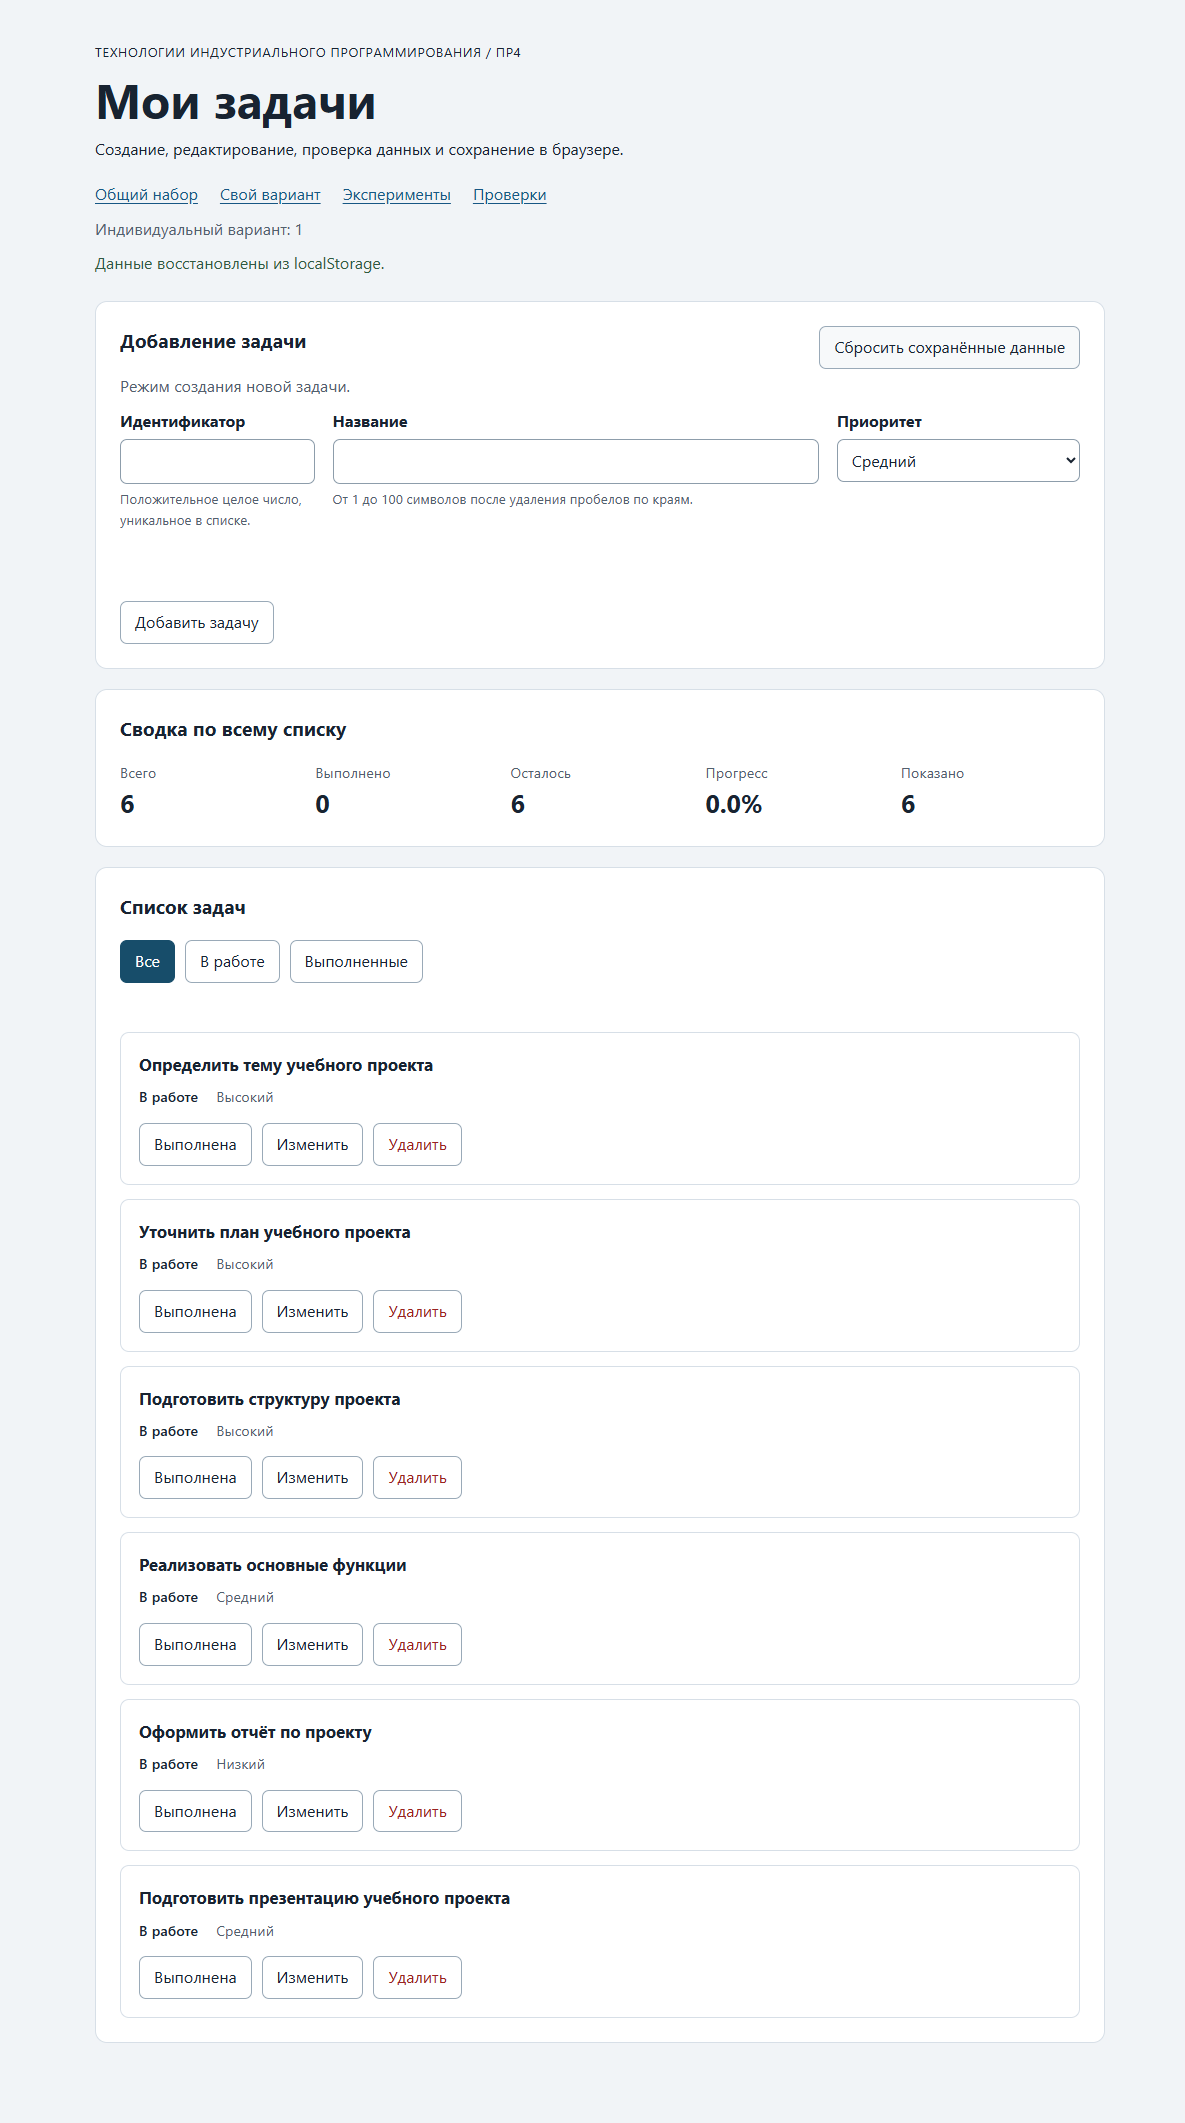
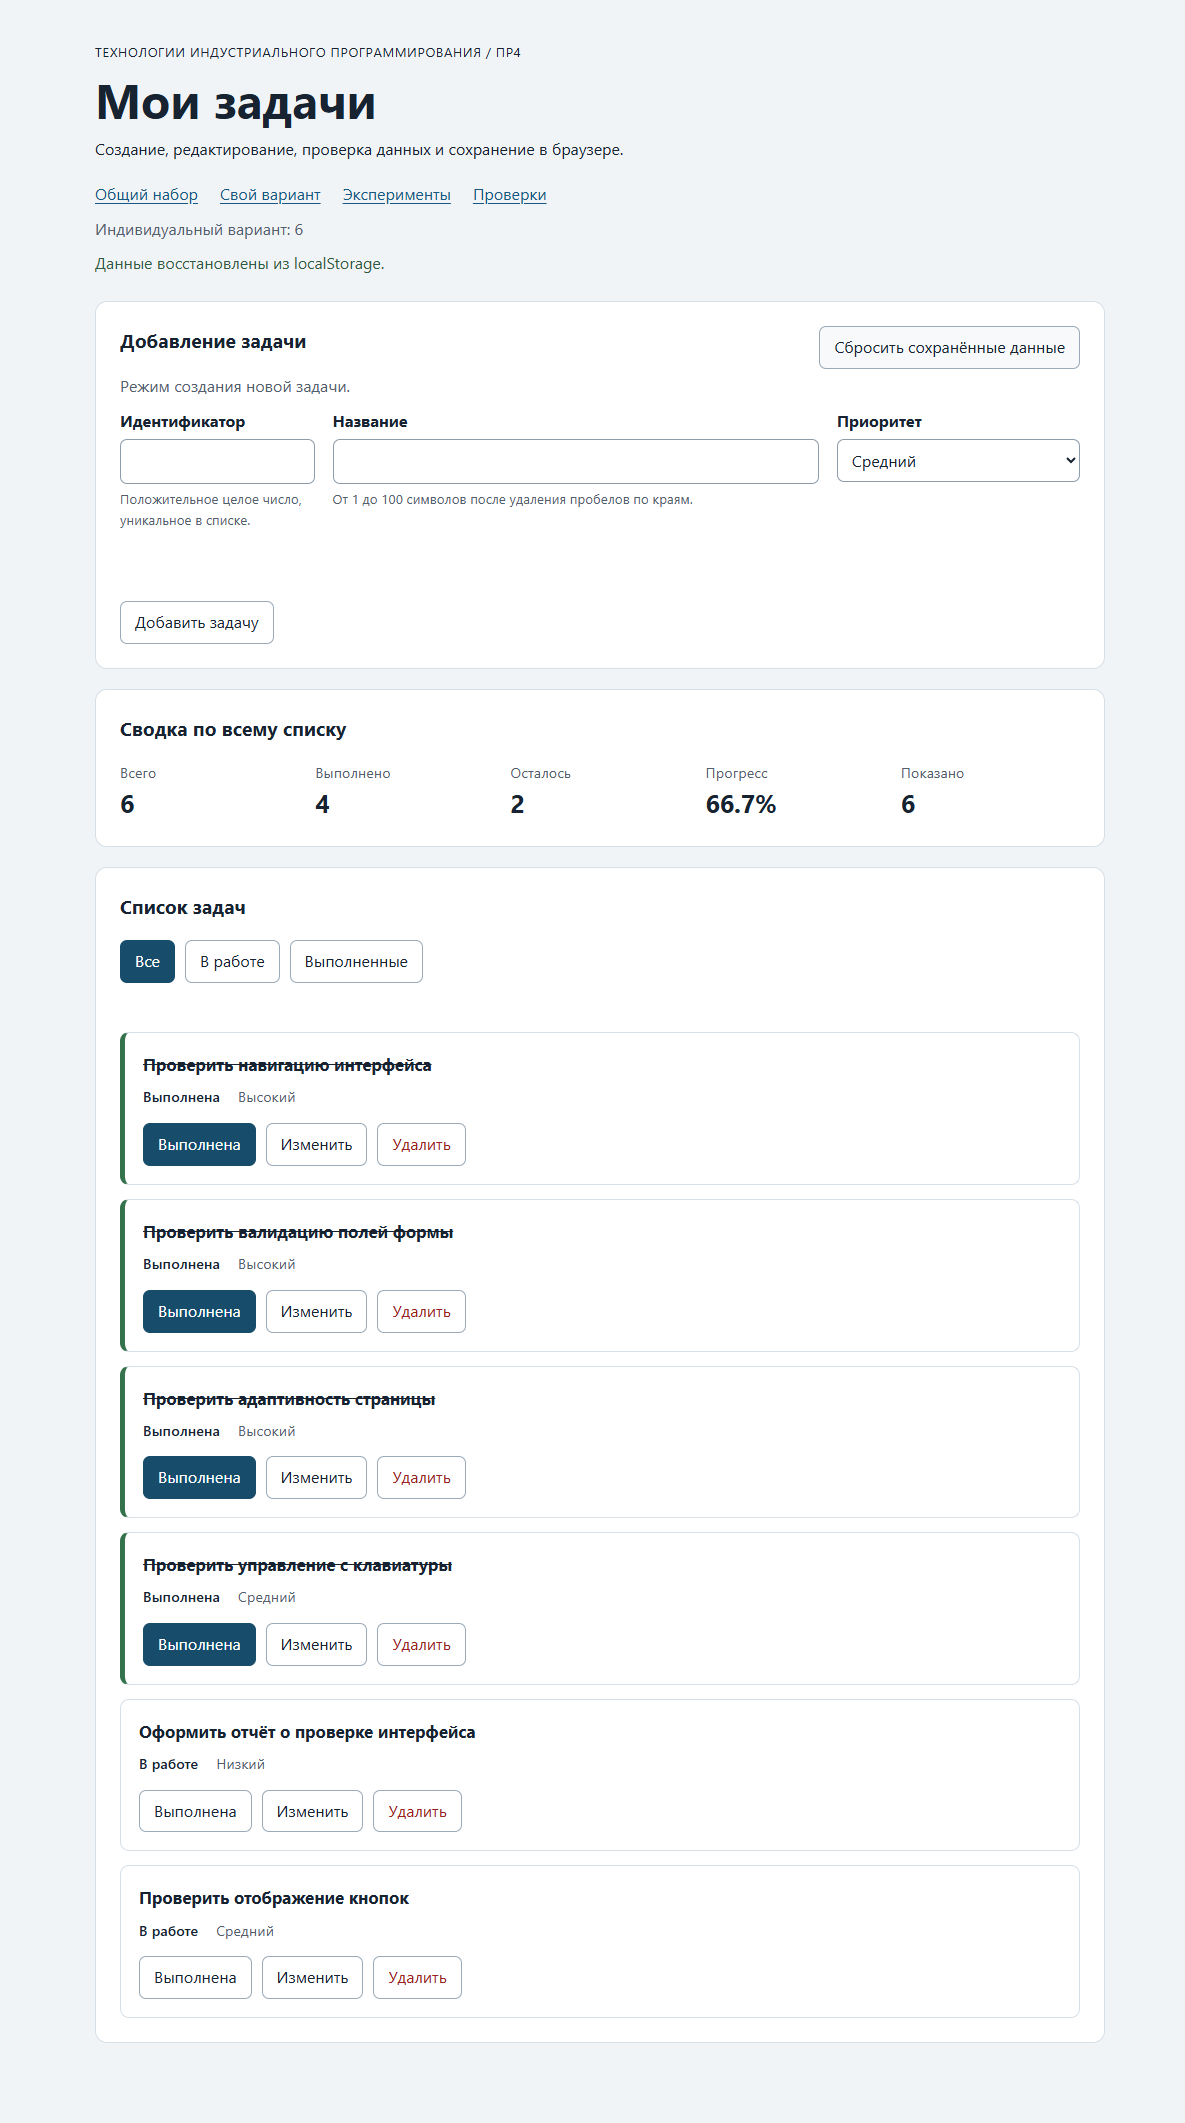
Исправлена практика 4 на вариант 6

diff --git a/practice-04/src/data.js b/practice-04/src/data.js
@@ -7,13 +7,14 @@ export const demoTasks = [
   { id: 10, title: "Оформить README", completed: true, priority: "medium" },
 ];
 
-// Вариант 1: подготовка учебного проекта. Изначально выполнено 0 задач.
-export const variantNumber = 1;
+// Вариант 6: проверка пользовательского интерфейса. Номер в журнале — 22.
+// По методичке изначально выполнены первые пять задач.
+export const variantNumber = 6;
 export const variantTasks = [
-  { id: 11, title: "Определить тему учебного проекта", completed: false, priority: "high" },
-  { id: 23, title: "Составить план работы", completed: false, priority: "medium" },
-  { id: 37, title: "Подобрать учебные материалы", completed: false, priority: "low" },
-  { id: 41, title: "Подготовить структуру проекта", completed: false, priority: "high" },
-  { id: 58, title: "Реализовать основные функции", completed: false, priority: "medium" },
-  { id: 64, title: "Оформить отчёт по проекту", completed: false, priority: "low" },
+  { id: 11, title: "Проверить навигацию интерфейса", completed: true, priority: "high" },
+  { id: 23, title: "Проверить поля формы", completed: true, priority: "medium" },
+  { id: 37, title: "Проверить сообщения об ошибках", completed: true, priority: "low" },
+  { id: 41, title: "Проверить адаптивность страницы", completed: true, priority: "high" },
+  { id: 58, title: "Проверить управление с клавиатуры", completed: true, priority: "medium" },
+  { id: 64, title: "Оформить отчёт о проверке интерфейса", completed: false, priority: "low" },
 ];

diff --git a/practice-04/README.md b/practice-04/README.md
@@ -6,7 +6,9 @@
 |---|---|
 | Имя | Полякова Дарья |
 | Группа | ЭФБО-05-25 |
-| Вариант из ПР2–ПР3 | 1 — подготовка учебного проекта |
+| Номер в журнале | 22 |
+| Вариант из ПР2–ПР3 | 6 — проверка пользовательского интерфейса; `((22 - 1) % 8) + 1 = 6` |
+| Повторная проверка варианта | 06.10.2026 |
 | Дата проверки | 05.10.2026 |
 | Node.js / npm | v24.21.0 / 11.19.0 |
 | Браузер | Microsoft Edge 154.0.4258.53 |
@@ -27,9 +29,11 @@ npm.cmd start
 Зависимостей нет, `npm install` не требуется. В PowerShell использован `npm.cmd`; обычные команды `npm test` и `npm start` также предусмотрены в `package.json`.
 
 - [Общий набор](http://127.0.0.1:5504/)
-- [Вариант 1](http://127.0.0.1:5504/index.html?dataset=variant)
+- [Вариант 6](http://127.0.0.1:5504/index.html?dataset=variant)
 - [Пять экспериментов](http://127.0.0.1:5504/examples/forms-storage.html)
 - [Браузерные проверки](http://127.0.0.1:5504/checks.html)
+
+После обновления работы открой «Свой вариант» и нажми «Сбросить сохранённые данные», чтобы загрузить исходные задачи варианта 6 вместо ранее сохранённого списка.
 
 Сервер запускается только на `127.0.0.1:5504`. Для повторения проверок нужно сохранять этот адрес и порт: другой origin имеет другое хранилище. Открытие HTML через `file://` не используется.
 
@@ -39,7 +43,7 @@ npm.cmd start
 
 | Файл | Что перенесено или изменено |
 |---|---|
-| `data.js` | Без изменений: общий набор и шесть задач варианта 1. |
+| `data.js` | Без изменений: общий набор и шесть задач варианта 6. |
 | `task-service.js` | Все прежние операции; добавлена `updateTask`, сохраняющая `id`, `completed`, порядок и исходные объекты. |
 | `task-selectors.js` | Без изменений: фильтры `all`, `pending`, `completed`. |
 | `task-view.js` | Список, сводка и пустые состояния; добавлена третья кнопка `edit` с вложенной подписью «Изменить». |
@@ -118,29 +122,32 @@ npm.cmd start
 
 ## Индивидуальный вариант
 
-Вариант 1, подготовка учебного проекта. Все шесть исходных задач имеют `completed: false`.
+Повторная проверка варианта 6 выполнена 6 октября 2026 года.
+Фактический протокол: [variant-checks-output.txt](./checks/variant-checks-output.txt).
+
+Вариант 6, проверка пользовательского интерфейса. Первые пять исходных задач имеют `completed: true`, задача 64 — `false`.
 
 | id | Исходное название | Приоритет |
 |---:|---|---|
-| 11 | Определить тему учебного проекта | high |
-| 23 | Составить план работы | medium |
-| 37 | Подобрать учебные материалы | low |
-| 41 | Подготовить структуру проекта | high |
-| 58 | Реализовать основные функции | medium |
-| 64 | Оформить отчёт по проекту | low |
+| 11 | Проверить навигацию интерфейса | high |
+| 23 | Проверить поля формы | medium |
+| 37 | Проверить сообщения об ошибках | low |
+| 41 | Проверить адаптивность страницы | high |
+| 58 | Проверить управление с клавиатуры | medium |
+| 64 | Оформить отчёт о проверке интерфейса | low |
 
-Прогноз: после добавления 75 будет 7 невыполненных задач; редактирование не меняет счётчики; удаление 37 оставит 6 невыполненных и 0.0%; перезагрузка сохранит изменения, сброс восстановит исходные шесть. Фактическая последовательность:
+Прогноз: изначально 6 задач, 5 выполнено, прогресс 83.3%; после добавления 75 будет 7 задач, 5 выполнено, прогресс 71.4%; редактирование не меняет счётчики; удаление выполненной 37 оставит 6 задач, 4 выполнено, прогресс 66.7%; перезагрузка сохранит изменения, сброс восстановит исходные шесть. Фактическая последовательность:
 
 | Этап | Всего | Выполнено | Осталось | Прогресс | Видимые id |
 |---|---:|---:|---:|---:|---|
-| Исходный набор | 6 | 0 | 6 | 0.0% | `[11,23,37,41,58,64]` |
-| После добавления `75` | 7 | 0 | 7 | 0.0% | `[11,23,37,41,58,64,75]` |
-| После редактирования `23` | 7 | 0 | 7 | 0.0% | `[11,23,37,41,58,64,75]` |
-| После удаления `37` | 6 | 0 | 6 | 0.0% | `[11,23,41,58,64,75]` |
-| После перезагрузки | 6 | 0 | 6 | 0.0% | `[11,23,41,58,64,75]` |
-| После сброса | 6 | 0 | 6 | 0.0% | `[11,23,37,41,58,64]` |
+| Исходный набор | 6 | 5 | 1 | 83.3% | `[11,23,37,41,58,64]` |
+| После добавления `75` | 7 | 5 | 2 | 71.4% | `[11,23,37,41,58,64,75]` |
+| После редактирования `23` | 7 | 5 | 2 | 71.4% | `[11,23,37,41,58,64,75]` |
+| После удаления `37` | 6 | 4 | 2 | 66.7% | `[11,23,41,58,64,75]` |
+| После перезагрузки | 6 | 4 | 2 | 66.7% | `[11,23,41,58,64,75]` |
+| После сброса | 6 | 5 | 1 | 83.3% | `[11,23,37,41,58,64]` |
 
-Добавлена `75`: «Подготовить презентацию учебного проекта», `medium`. Задача `23` изменена на «Уточнить план учебного проекта», `high`; её статус остался false. После перезагрузки проверены эти поля и отсутствие 37. Общий набор не изменился. После сброса варианта 37 вернулась, 75 отсутствует, ключ варианта удалён. Ветвлений по номеру варианта в реализации нет.
+Добавлена `75`: «Проверить отображение кнопок», `medium`. Задача `23` изменена на «Проверить валидацию полей формы», `high`; её статус остался true. После перезагрузки проверены эти поля и отсутствие 37. Общий набор не изменился. После сброса варианта 37 вернулась, 75 отсутствует, ключ варианта удалён. Ветвлений по номеру варианта в реализации нет.
 
 ## Протокол проверок сервиса и новых модулей
 
@@ -309,7 +316,7 @@ OK: Общий и индивидуальный наборы используют
 
 ![Общий набор после изменений и перезагрузки](./screenshots/demo-restored.png)
 
-- [Вариант 1 после изменений и перезагрузки](./screenshots/variant-restored.png)
+- [Вариант 6 после изменений и перезагрузки](./screenshots/variant-restored.png)
 - [Предупреждение после повреждённого JSON](./screenshots/storage-warning.png)
 - [23 успешные браузерные проверки](./screenshots/browser-checks.png)
 - [Отображение на узком экране](./screenshots/mobile.png)
